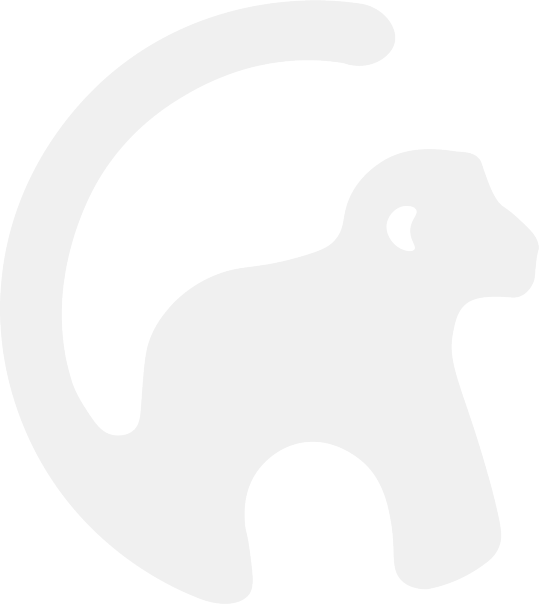
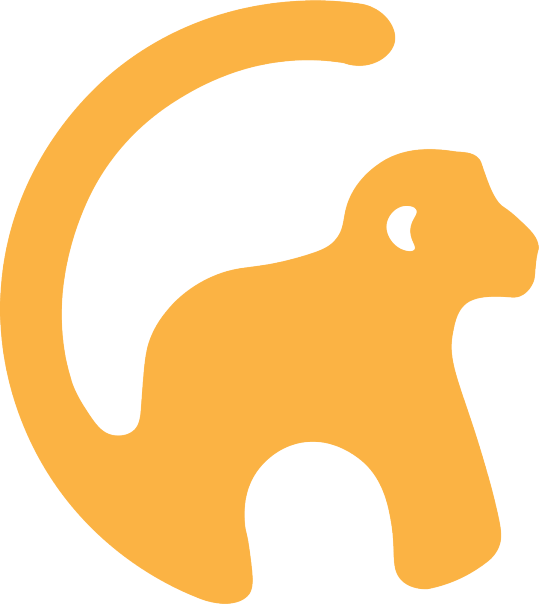
change to yellow

diff --git a/extension/background.js b/extension/background.js
@@ -15,10 +15,10 @@ const genPopup = (text) => {
   popup.style.left = window.innerWidth / 2 - 50 + "px";
   popup.style.width = "220px";
   popup.style.height = "65px";
-  popup.style.backgroundColor = "#5891ed";
+  popup.style.backgroundColor = "#fbb344";
   popup.style.padding = "10px";
   popup.style.borderRadius = "10px";
-  popup.style.color = "white";
+  popup.style.color = "black";
   popup.style.fontFamily = "Helvetica";
   popup.style.fontSize = "16px";
   popup.style.fontWeight = "bold";
